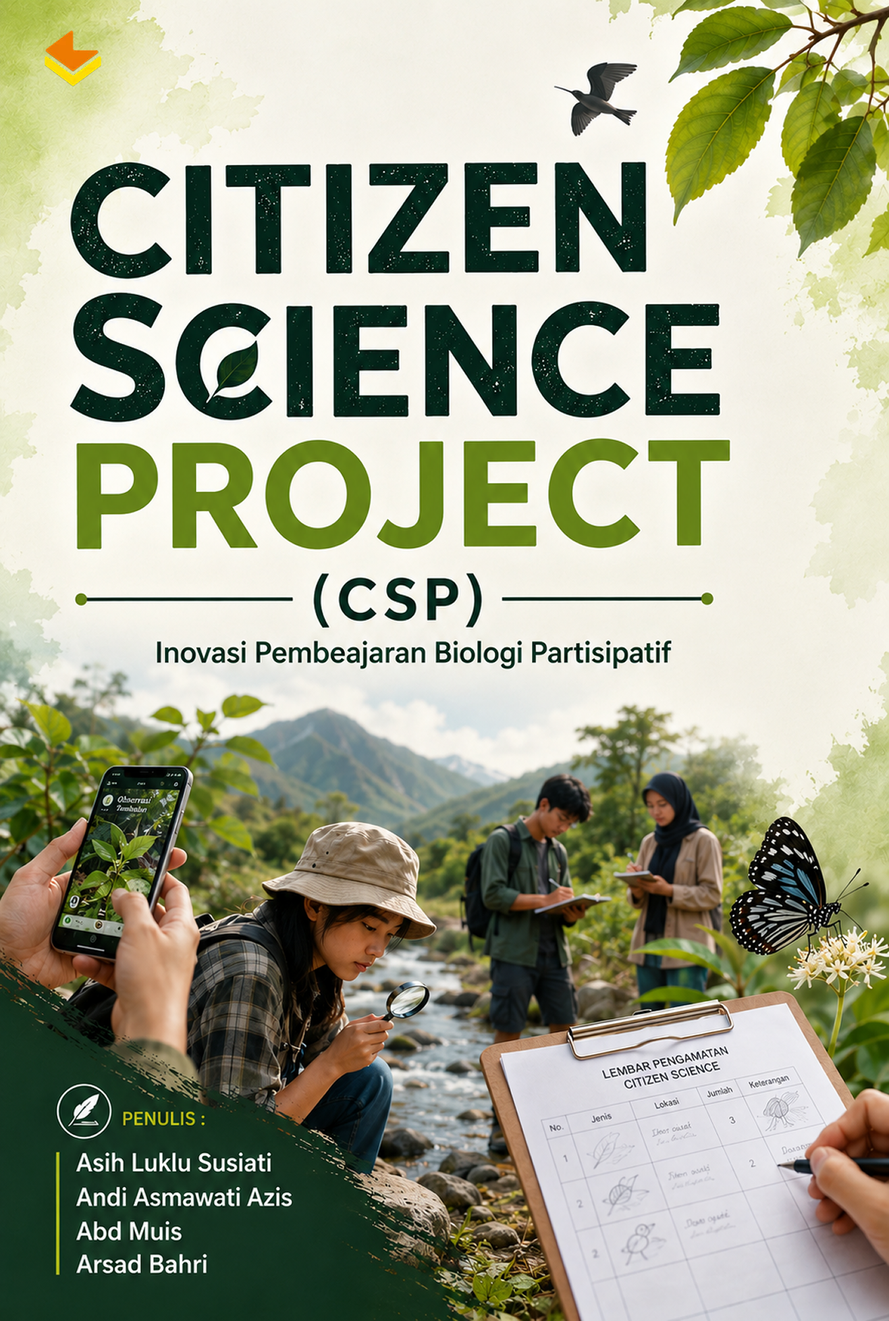
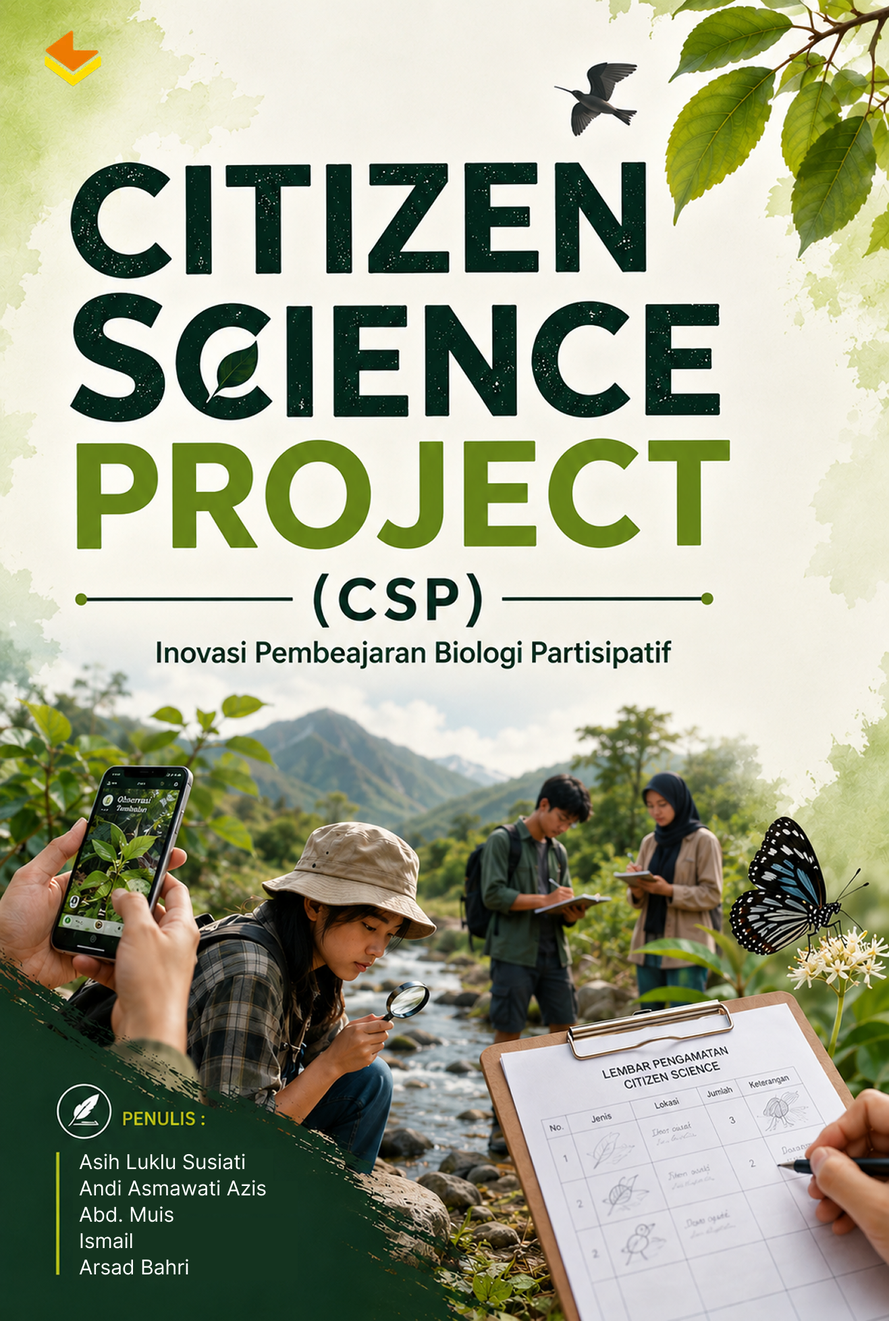
feat: update book

Changed region(s): [[0.0623, 0.8732, 0.3424, 0.9668]]

diff --git a/mock-data/publications.ts b/mock-data/publications.ts
@@ -861,7 +861,6 @@ export const mockBooks: BookData[] = [
     coverAlt: "Cover buku Desain Pembelajaran Biologi di Pendidikan Tinggi",
     previewImages: [
       "/books/dpbpt/cover.jpg",
-      "/books/dpbpt/previews/1.jpg",
       "/books/dpbpt/previews/2.jpg",
       "/books/dpbpt/previews/3.jpg",
       "/books/dpbpt/previews/4.jpg"
@@ -883,14 +882,15 @@ export const mockBooks: BookData[] = [
     authors: [
       "Asih Luklu Susiati",
       "Andi Asmawati",
-      "Abd Muis",
+      "Abd. Muis",
+      "Ismail",
       "Arsad Bahri"
     ],
     publisher: "PT Cognifera Education Academy",
     publicationYear: 2026,
     isbn: "-",
     pages: 100,
-    pageLabel: "i-viii + 100 halaman",
+    pageLabel: "i-vii + 100 halaman",
     language: "id",
     category: "textbook",
     description: "Buku ini menghadirkan konsep Citizen Science Project (CSP) sebagai pendekatan inovatif dalam pembelajaran biologi partisipatif yang melibatkan masyarakat dalam proses ilmiah.",
